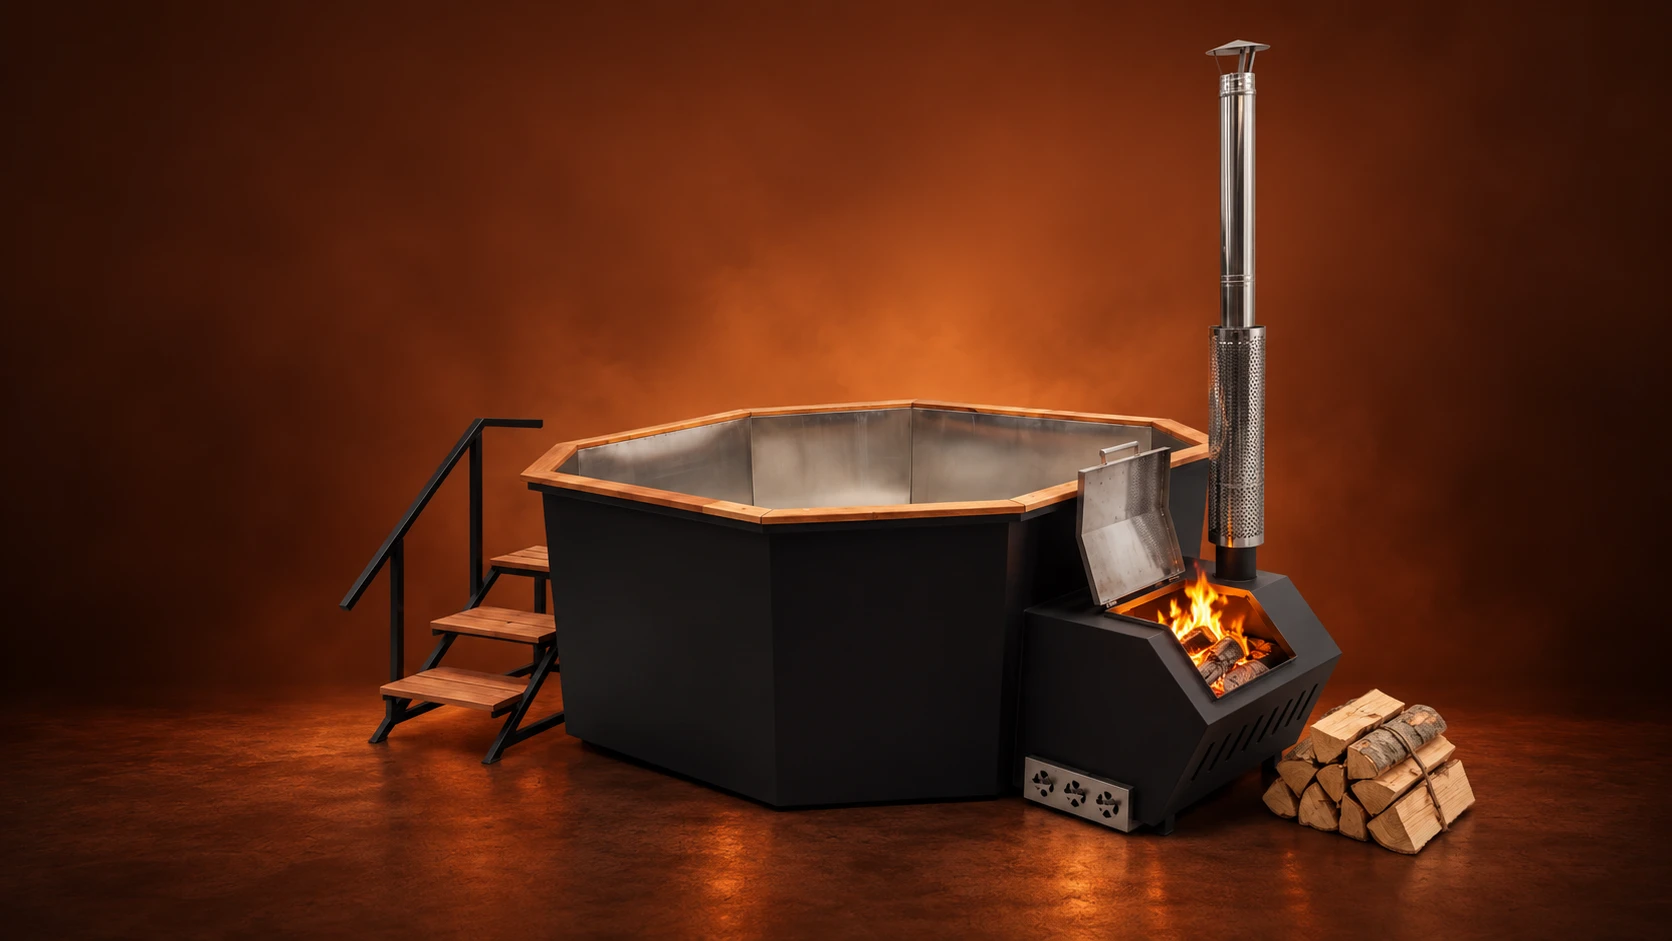
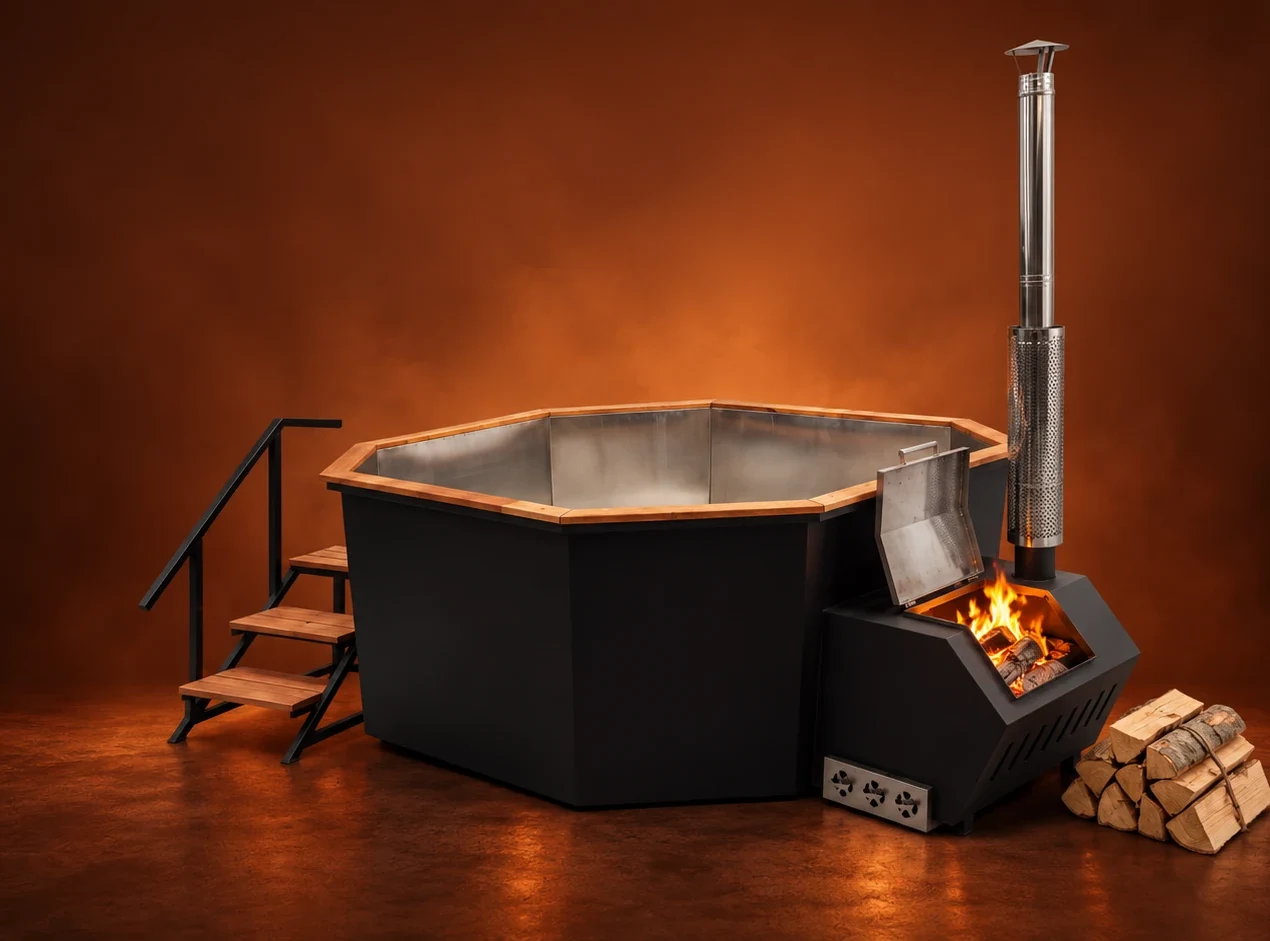
Make every tub read at the same size across the model pages
Each photograph was taken at its own distance: the bowl's rim took
anywhere from 28% to 66% of its frame, so at one render width Графит
looked twice the size of Оникс.

Two things fix it. The dead air at the sides is cropped away, and each
model carries its own hero width, computed so that rim x width lands on
one figure for the whole line — they now agree to within a pixel. The
originals are kept in assets/photos-src and the measurements live in
scripts/normalise-hero-photos.py, so adding a seventh photograph is a
re-run rather than a guess.

Claude-Session: https://claude.ai/code/session_01TguMyRvyZftt8ueoPbGrxp

diff --git a/src/data/models.ts b/src/data/models.ts
@@ -75,6 +75,16 @@ export interface ModelPhotos {
   hero?: string
   /** Product shot on the catalogue card. */
   card?: string
+  /**
+   * Width of the hero shot on a large screen, as a share of the viewport.
+   *
+   * Every photograph was taken at its own distance, so the same render width
+   * would show one tub twice the size of another. These numbers are computed
+   * by `scripts/normalise-hero-photos.py` from the measured rim of each bowl,
+   * so that rim x width lands on one figure for the whole line. Re-run the
+   * script after adding a photograph rather than guessing a value.
+   */
+  heroWidth?: number
 }
 
 export interface Model {
@@ -135,7 +145,7 @@ export const models: Model[] = [
     ],
     // Only the model page's own hero: the home page and the catalogue card
     // are waiting for their own shots.
-    photos: { hero: 'grafit-hero.webp' },
+    photos: { hero: 'grafit-hero.webp', heroWidth: 0.542 },
     includes: [...commonIncludes, 'Ветрозащита', 'Дымоход 3 м и защитный экран'],
     seoTitle: 'Банный чан «Графит»',
     seoDescription:
@@ -153,7 +163,7 @@ export const models: Model[] = [
     stove: 'Увеличенная, жаропрочная сталь 09Г2С',
     bowlShape: 'faceted',
     theme: 'ink',
-    photos: { hero: 'cherny-brilliant-hero.webp' },
+    photos: { hero: 'cherny-brilliant-hero.webp', heroWidth: 0.528 },
     offers: [
       { cm: 175, price: 133000 },
       { cm: 210, price: 155500 },
@@ -207,7 +217,7 @@ export const models: Model[] = [
     bowlShape: 'faceted',
     theme: 'jade',
     badge: 'Хит продаж',
-    photos: { hero: 'nefrit-hero.webp' },
+    photos: { hero: 'nefrit-hero.webp', heroWidth: 0.511 },
     offers: [
       { cm: 175, price: 187000 },
       { cm: 210, price: 195990 },
@@ -235,7 +245,7 @@ export const models: Model[] = [
     stove: 'Выносная, водяной контур и теплосъёмные трубы',
     bowlShape: 'faceted',
     theme: 'olive',
-    photos: { hero: 'oniks-hero.webp' },
+    photos: { hero: 'oniks-hero.webp', heroWidth: 0.767 },
     offers: [
       { cm: 175, price: 188000 },
       { cm: 210, price: 199000 },
@@ -264,7 +274,7 @@ export const models: Model[] = [
     bowlShape: 'faceted',
     theme: 'terracotta',
     badge: 'Решение 4 в 1',
-    photos: { hero: 'oniks-pro-hero.webp' },
+    photos: { hero: 'oniks-pro-hero.webp', heroWidth: 0.677 },
     offers: [
       { cm: 210, price: 294000 },
       { cm: 235, price: 353000 },
@@ -291,7 +301,7 @@ export const models: Model[] = [
     stove: 'Боковая приварная расширенная, водяной контур и теплосъёмные трубы',
     bowlShape: 'faceted',
     theme: 'copper',
-    photos: { hero: 'grant-hero.webp' },
+    photos: { hero: 'grant-hero.webp', heroWidth: 0.8 },
     offers: [
       { cm: 235, price: 459000 },
       { cm: 250, price: 588000 },

diff --git a/src/pages/ModelPage.tsx b/src/pages/ModelPage.tsx
@@ -1,3 +1,4 @@
+import type { CSSProperties } from 'react'
 import { Link } from 'react-router-dom'
 import { NotFoundPage } from './NotFoundPage'
 import { ButtonLink } from '../components/ui/Button'
@@ -49,10 +50,26 @@ export function ModelPage({ slug }: { slug: string }) {
  *
  * A studio shot of a whole tub cannot be cropped to the shape of a hero
  * without losing its chimney and its base, so the photograph is contained and
- * set to the right at a little over half the width — large, whole, and clear
- * of the headline. A model still waiting for its photograph keeps the
- * full-bleed stand-in, which has nothing to lose by being cropped.
+ * set to the right, at a width that is its own — see `heroWidthVars`. A model
+ * still waiting for its photograph keeps the full-bleed stand-in, which has
+ * nothing to lose by being cropped.
  */
+/**
+ * Width of the hero shot, as CSS custom properties.
+ *
+ * The large-screen figure is per model and comes from the photograph itself
+ * (see `ModelPhotos.heroWidth`); the small-screen one keeps the same ratios on
+ * a wider base, capped so nothing runs past the edge.
+ */
+function heroWidthVars(model: Model): CSSProperties {
+  const lg = model.photos?.heroWidth ?? 0.64
+  const sm = Math.min(lg * 1.25, 1)
+  return {
+    '--hero-lg': `${(lg * 100).toFixed(1)}%`,
+    '--hero-sm': `${(sm * 100).toFixed(1)}%`,
+  } as CSSProperties
+}
+
 function HeroBackdrop({ model }: { model: Model }) {
   if (!model.photos?.hero) {
     return (
@@ -79,7 +96,10 @@ function HeroBackdrop({ model }: { model: Model }) {
         The fade is on the left edge only: a fade from the top dims the
         chimney, which is the first thing the eye lands on.
       */}
-      <div className="pointer-events-none absolute right-0 bottom-0 -z-20 w-[94%] [mask-image:linear-gradient(to_right,transparent,black_24%)] lg:w-[64%]">
+      <div
+        style={heroWidthVars(model)}
+        className="pointer-events-none absolute right-0 bottom-0 -z-20 w-(--hero-sm) [mask-image:linear-gradient(to_right,transparent,black_24%)] lg:w-(--hero-lg)"
+      >
         <ModelShot model={model} slot="hero" contain className="w-full" />
       </div>
       <div

diff --git a/scripts/normalise-hero-photos.py b/scripts/normalise-hero-photos.py
@@ -1,0 +1,80 @@
+"""Normalise the hero shots so every tub reads at the same size on the page.
+
+Each photograph was taken at its own distance, so the bowl's rim takes
+anywhere from 28% to 66% of its frame. Two things bring them together: the
+dead air at the sides is cropped away, and what remains is given a per-model
+render width, so rim x width lands on one number for every model.
+
+Crop boxes and rim measurements were read off a contact sheet with a
+percentage grid — automatic detection kept latching onto floors and
+reflections rather than the product.
+"""
+import json
+from PIL import Image, ImageDraw
+
+SRC = 'assets/photos-src'
+DST = 'public/photos'
+OUT = '/tmp/claude-0/-home-user-egor-new/53ae53de-0bea-5941-9b90-6b7814724db0/scratchpad'
+
+# name: (crop_left, crop_right, rim_left, rim_right) — all fractions of the
+# original width. The rim is the widest point of the bowl.
+SHOTS = {
+    'grafit':           (0.00, 1.00, 0.12, 0.78),
+    'cherny-brilliant': (0.22, 0.84, 0.30, 0.72),
+    'nefrit':           (0.20, 0.80, 0.29, 0.71),
+    'oniks':            (0.20, 0.80, 0.24, 0.52),
+    'oniks-pro':        (0.14, 0.84, 0.23, 0.60),
+    'grant':            (0.12, 0.88, 0.19, 0.53),
+}
+
+# Width of the shot on a large screen, as a share of the viewport, before the
+# per-model correction. The correction is capped so no shot runs past 80%.
+BASE_LG = 0.64
+MAX_LG = 0.80
+
+rims = {}
+for name, (cl, cr, rl, rr) in SHOTS.items():
+    im = Image.open(f'{SRC}/{name}-hero.webp').convert('RGB')
+    w, h = im.size
+    box = (round(w * cl), 0, round(w * cr), h)
+    cropped = im.crop(box)
+    cropped.save(f'{DST}/{name}-hero.webp', 'WEBP', quality=88, method=6)
+    rims[name] = {
+        'rim': (rr - rl) / (cr - cl),
+        'cx': ((rl + rr) / 2 - cl) / (cr - cl),
+        'size': cropped.size,
+    }
+
+# The widest shot sets the ceiling; every other model scales down to match it.
+widest = max(MAX_LG * rims[n]['rim'] for n in rims if rims[n]['rim'] == min(r['rim'] for r in rims.values()))
+target = widest
+scales = {}
+for name, info in rims.items():
+    lg = min(target / info['rim'], MAX_LG)
+    scales[name] = round(lg, 4)
+
+print(json.dumps({n: {'rim': round(rims[n]['rim'], 3), 'cx': round(rims[n]['cx'], 3),
+                      'size': rims[n]['size'], 'lg_width': scales[n],
+                      'rendered_rim': round(scales[n] * rims[n]['rim'], 4)}
+                  for n in SHOTS}, indent=2, ensure_ascii=False))
+
+# Preview: each shot drawn at its final width against a common viewport, so the
+# rims can be checked against one another.
+VW, ROW = 1100, 300
+sheet = Image.new('RGB', (VW, ROW * len(SHOTS)), (12, 12, 14))
+d = ImageDraw.Draw(sheet)
+y = 0
+for name in SHOTS:
+    im = Image.open(f'{DST}/{name}-hero.webp')
+    tw = round(VW * scales[name])
+    th = round(im.height * tw / im.width)
+    tile = im.resize((tw, th))
+    sheet.paste(tile, (VW - tw, y + max(0, ROW - th)))
+    rl = VW - tw + round(tw * (rims[name]['cx'] - rims[name]['rim'] / 2))
+    rr = VW - tw + round(tw * (rims[name]['cx'] + rims[name]['rim'] / 2))
+    d.line([(rl, y + 4), (rl, y + ROW - 4)], fill=(255, 90, 0), width=3)
+    d.line([(rr, y + 4), (rr, y + ROW - 4)], fill=(255, 90, 0), width=3)
+    d.text((8, y + 8), f'{name}  w={scales[name]:.2f}', fill=(255, 220, 0))
+    y += ROW
+sheet.save(f'{OUT}/normalised.png')
+print('preview written')

diff --git a/docs/placeholders.md b/docs/placeholders.md
@@ -109,3 +109,17 @@
 - **Консультант в карточке квиза.** Стоит марка HOTTUB и подпись
   «консультант» — выдуманных имени и фотографии там намеренно нет.
   Если нужен живой человек, пришлите имя и фото.
+
+## Фотографии моделей
+
+Файл кладётся в `public/photos/`, имя вписывается в `photos` нужной модели
+в `src/data/models.ts` — компонент `ModelShot` подставит его сам.
+
+**Важно про размер.** Каждый снимок сделан со своего расстояния, поэтому
+при одинаковой ширине один чан выглядит вдвое больше другого. Чтобы этого
+не было, у каждой модели есть `photos.heroWidth` — своя ширина кадра на
+широком экране. Эти числа считает `scripts/normalise-hero-photos.py`:
+он обрезает лишний воздух по бокам и подбирает ширину так, чтобы ширина
+обода чаши на экране была одинаковой у всей линейки. Оригиналы лежат в
+`assets/photos-src/`. После добавления нового снимка пропишите его обрез
+и обод в скрипте и прогоните его заново, а не подбирайте число на глаз.
